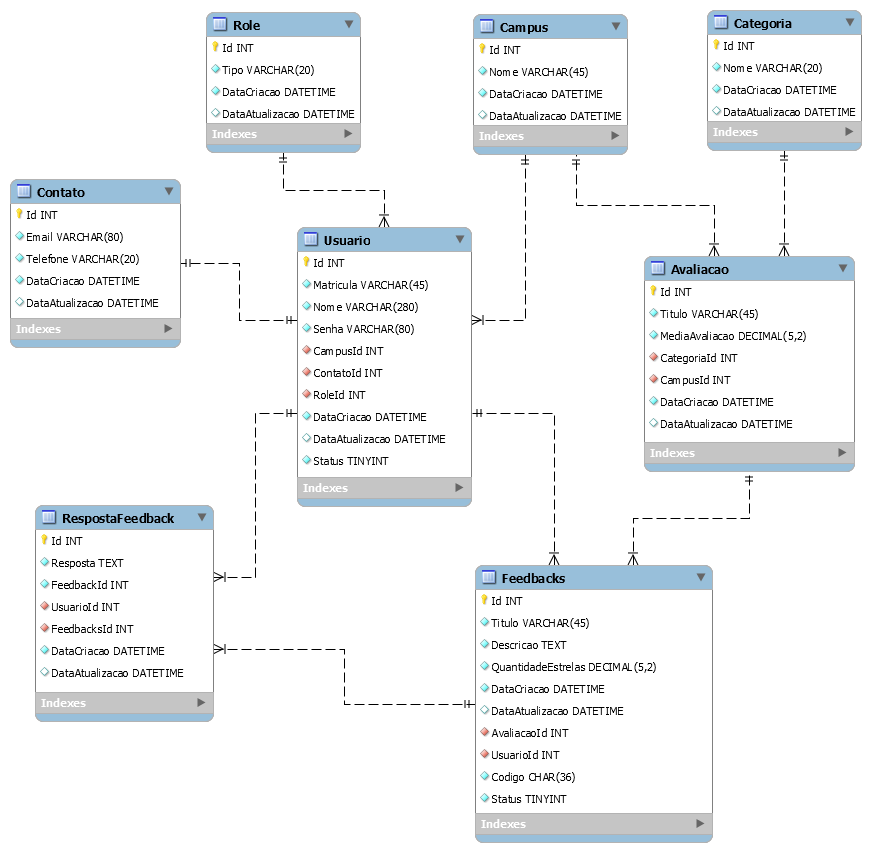
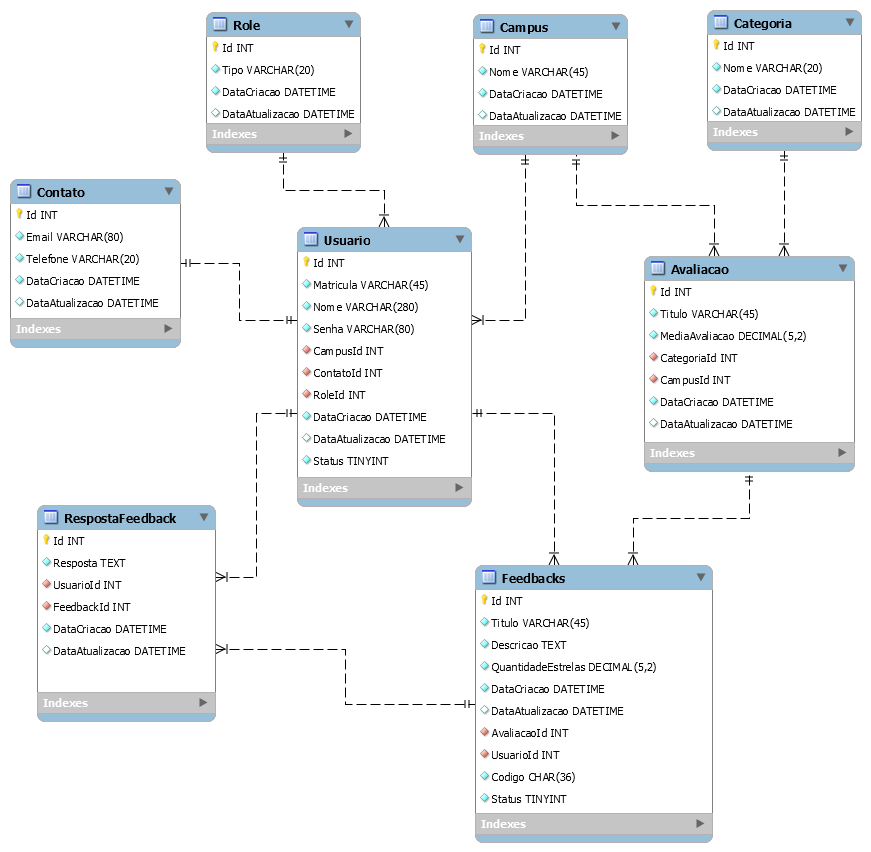
Issue #33 resolved, altereção na classe JWT e atualização do DER

diff --git a/IfeedsApi/Startup.cs b/IfeedsApi/Startup.cs
@@ -1,6 +1,7 @@
 using System;
 using System.IO;
 using System.Reflection;
+using System.Data.SqlClient;
 using System.Text;
 using System.Threading.Tasks;
 using AutoMapper;
@@ -53,11 +54,18 @@ namespace IfeedsApi
             });
 
 
+
+
             // Configurando banco de dados MySQL
-            string mySqlConnection = Configuration.GetConnectionString("rafaConnection");
+            var builder = new SqlConnectionStringBuilder(Configuration["Ifeeds:ConnectionString"]);
+            builder.Password = Configuration["Ifeeds:Password"];
+
+            
             services.AddDbContextPool<ApplicationDbContext>(options =>
-                options.UseMySql(mySqlConnection,
-                MySqlServerVersion.AutoDetect(mySqlConnection)));
+                options.UseMySql(builder.ConnectionString, MySqlServerVersion.AutoDetect(builder.ConnectionString)));
+
+
+
 
             // Configuração do AutoMapper
             var mappingProfile = new MapperConfiguration(mc =>
@@ -74,7 +82,7 @@ namespace IfeedsApi
             );
 
             // JWT config
-            var key = Encoding.ASCII.GetBytes(JwtSettings.Secret);
+            var key = Encoding.ASCII.GetBytes(new JwtSettings(Configuration).GetSecret());
             services.AddAuthentication(x =>
             {
                 x.DefaultAuthenticateScheme = JwtBearerDefaults.AuthenticationScheme;

diff --git a/IfeedsApi/Api/Controllers/UsuarioController.cs b/IfeedsApi/Api/Controllers/UsuarioController.cs
@@ -8,6 +8,7 @@ using IfeedsApi.Services;
 using Microsoft.AspNetCore.Authorization;
 using Microsoft.AspNetCore.Http;
 using Microsoft.AspNetCore.Mvc;
+using Microsoft.Extensions.Configuration;
 
 namespace IfeedsApi.Api.Controllers
 {
@@ -20,11 +21,14 @@ namespace IfeedsApi.Api.Controllers
 
         private readonly UsuarioService _usuarioService;
 
-        public UsuarioController(IMapper mapper, UsuarioMapper usuarioMapper, UsuarioService usuarioService)
+        private readonly IConfiguration _configuration;
+
+        public UsuarioController(IMapper mapper, UsuarioMapper usuarioMapper, UsuarioService usuarioService, IConfiguration configuration)
         {
             _usuarioMapper = usuarioMapper;
             _usuarioService = usuarioService;
             _mapper = mapper;
+            _configuration = configuration;
         }
 
 
@@ -41,7 +45,7 @@ namespace IfeedsApi.Api.Controllers
                 return NotFound();
             }
 
-            var token = TokenService.GenerateToken(_usuarioMapper.ToModel(usuario));
+            var token = new TokenService(_configuration).GenerateToken(_usuarioMapper.ToModel(usuario));
             Response.Cookies
                 .Append(
                     "X-Access-Token",

diff --git a/IfeedsApi/Domain/Services/TokenService.cs b/IfeedsApi/Domain/Services/TokenService.cs
@@ -4,16 +4,25 @@ using System.Security.Claims;
 using System.Text;
 using IfeedsApi.Api.Models;
 using IfeedsApi.Core.Auth;
+using Microsoft.Extensions.Configuration;
 using Microsoft.IdentityModel.Tokens;
 
 namespace IfeedsApi.Services
 {
     public class TokenService
     {
-        public static string GenerateToken(UsuarioModel usuario)
+        public IConfiguration Configuration { get; }
+        public TokenService(IConfiguration configuration)
         {
+            Configuration = configuration;
+        }
+        
+        public string GenerateToken(UsuarioModel usuario)
+        {
+            var jwt =  new JwtSettings(Configuration);
+
             var tokenHandler = new JwtSecurityTokenHandler();
-            var key = Encoding.ASCII.GetBytes(JwtSettings.Secret);
+            var key = Encoding.ASCII.GetBytes(jwt.GetSecret());
             var tokenDescriptor = new SecurityTokenDescriptor
             {
                 Subject = new ClaimsIdentity(new Claim[]

diff --git a/IfeedsApi/Core/Auth/JwtSettings.cs b/IfeedsApi/Core/Auth/JwtSettings.cs
@@ -1,7 +1,19 @@
+using Microsoft.Extensions.Configuration;
+
 namespace IfeedsApi.Core.Auth
 {
     public class JwtSettings
     {
-        public static string Secret = "$2y$12$Be412L9.nxQWjNPLIPjkkeY84zfEvsPc1gTbGFvjcCibHHkcvfv5e";
+        public JwtSettings(IConfiguration configuration)
+        {
+            Configuration = configuration;
+        }
+        public IConfiguration Configuration { get; }
+
+        public string GetSecret()
+        {
+            return Configuration["Ifeeds:JwtSecret"];
+        }
+        
     }
 }

diff --git a/IfeedsApi/Api/Controllers/CampusController.cs b/IfeedsApi/Api/Controllers/CampusController.cs
@@ -14,7 +14,6 @@ namespace IfeedsApi.Api.Controllers
     [Route("/api/campus")]
     public class CampusController : ControllerBase
     {
-        private readonly ApplicationDbContext _context;
         private readonly CampusMapper _campusMapper;
         private readonly CampusService _campusService;
         private readonly IMapper _mapper;

diff --git a/README.md b/README.md
@@ -53,7 +53,7 @@ também, fazer elogios sobre serviços, infraestrutura e eventos da instituiçã
 
 ## DER
 
-![der_v12](assets/img/der_v12.png)
+![der_v13](assets/img/der_v13.png)
 
 ## PROTÓTIPOS
 
